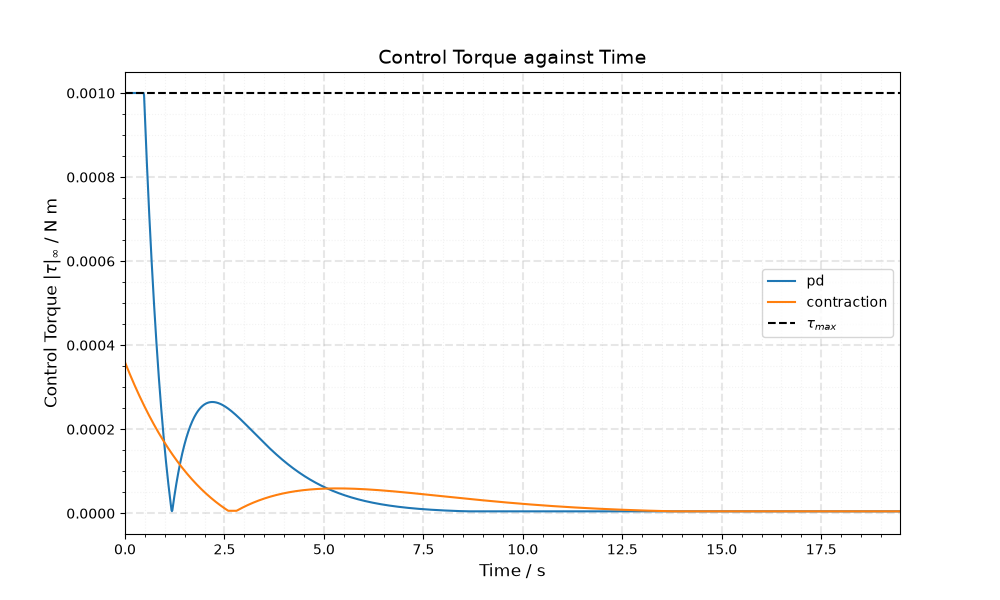
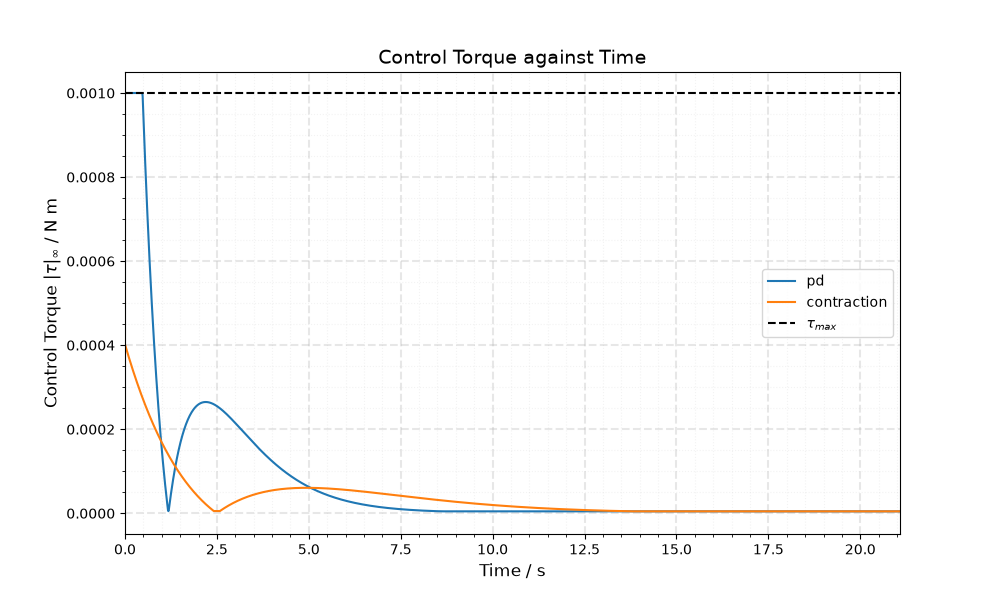
Final synthesis and README update

diff --git a/README.md b/README.md
@@ -1,12 +1,10 @@
 # Orbital Propagator
 
+**[Read the full report](REPORT_LINK_HERE)**: the propagator and the PD vs contraction controller comparison.
+
 A 6 degree-of-freedom orbital decay simulator, coupling orbital and attitude dynamics for a tumbling satellite under atmospheric drag, J2/J3/J4 gravitational perturbations, and stochastic solar flux (F10.7) Monte-Carlo variation.
 
 This project began as a rudimentary Excel spreadsheet model and has been extended into a coupled Python simulation. Since drag depends on the satellite's instantaneous cross-sectional area, and that area changes continuously as the satellite tumbles, orbital decay and attitude dynamics cannot be modeled independently.
-
-## Report
-
-A report covering the controller comparison is in progress and will be linked here.
 
 ## Features
 
@@ -15,7 +13,7 @@ A report covering the controller comparison is in progress and will be linked he
 - **Perturbations**: J2, J3, and J4 zonal harmonics (Earth oblateness and higher-order gravity effects)
 - **Atmospheric model**: NRLMSISE-00 via [`pymsis`](https://github.com/SWxTREC/pymsis), including stochastic F10.7 solar flux variation via a Monte Carlo Ornstein-Uhlenbeck process
 - **Attitude dynamics**: gravity-gradient and aerodynamic torques, quaternion kinematics (gimbal-lock free), Euler's rigid body equations
-- **Attitude control**: a PD controller and a contraction-theory controller (gain from a linear matrix inequality, with a numerical audit of the certificate), compared on a tumbling satellite at matched control effort
+- **Attitude control**: a PD controller and a contraction-theory controller (gain from a linear matrix inequality, with a numerical audit of the certificate), compared on a small test body
 
 ## Repository Structure
 
@@ -43,37 +41,37 @@ python simulate.py
 
 | Mode | What it runs |
 |---|---|
-| `single` | One uncontrolled propagation (orbit, altitude, silhouette area, angular velocity) |
+| `single` | One uncontrolled propagation (orbit, altitude, silhouette area) |
 | `stochastic` | Monte Carlo batch over random F10.7 trajectories |
 | `control` | PD vs contraction controller from the same starting attitude, with a metrics table and certificate audit |
 
-Run the tests with `python tests/test_suite.py` (it re-synthesises the contraction gain first).
+Run the tests with `python tests/test_suite.py`. It re-synthesises the contraction gain first without a fixed seed, so it overwrites `control/K.npy` and `control/M.npy` with a slightly different gain.
 
 Model parameters (orbit, satellite geometry, integration settings) are set in `z_main/config.py`.
 
-Graph inputs available include "orbit", "stochastic", "altitude", "silhouette", and "omega".
+`single` and `control` plots are saved to `_docs/images/`, replacing any earlier copies, including the images shown below.
 
 ## Results
 
-**Object Orbit around earth ("orbit"):** the trajectory of the object as it orbits around the Earth.
+**Orbit around Earth (`single` mode):** the trajectory of the object as it orbits around the Earth.
 
 ![Orbit](_docs/images/orbit.png)
 
-**Silhouette area over time ("silhouette"):** the projected cross-sectional area oscillates as the satellite tumbles, which drives the time-varying drag force.
+**Silhouette area over time (`single` mode):** the projected cross-sectional area oscillates as the satellite tumbles, which drives the time-varying drag force.
 
 ![Silhouette area against time](_docs/images/silhouette_area.png)
 
-**Monte Carlo altitude decay (15 runs) ("stochastic"):** decay uncertainty grows over time as stochastic F10.7 variation compounds across the propagation window.
+**Monte Carlo altitude decay (15 runs) (`stochastic` mode):** decay uncertainty grows over time as stochastic F10.7 variation compounds across the propagation window.
 
 ![Altitude against time, Monte Carlo](_docs/images/altitude_montecarlo.png)
 
-**Single-run altitude decay ("decay"):** periapsis and apoapsis oscillation shown as a filled band, with a sharp final descent as drag intensifies near reentry.
+**Single-run altitude decay (`single` mode):** periapsis and apoapsis oscillation shown as a filled band, with a sharp final descent as drag intensifies near reentry.
 
 ![Altitude against time, single run](_docs/images/altitude_singlerun.png)
 
 ## Background & Theory
 
-A full technical writeup, covering the state vector, integration method, perturbation and drag models, and attitude dynamics derivations, is available ([here](https://drive.google.com/file/d/1rn8725VqUK_gLDFTKHJGWjeKTiW_odit/view?usp=sharing)).
+A full technical writeup, covering the state vector, integration method, perturbation and drag models, and attitude dynamics derivations, is available ([here](https://drive.google.com/file/d/1eVhonOmglabFQFT5dziGbBMAgRy_dJVF/view?usp=sharing)).
 
 ## Attitude Control
 
@@ -81,9 +79,23 @@ The control layer is tested on a small test body (about 0.0038 kg m² inertia, 1
 
 - **PD**: `tau = -Kp q_e,vec - Kd w`, with gains set from a chosen natural frequency and damping ratio. Its steady-state offset is predicted as `2 |d| / Kp`, where `d` is the disturbance torque, and the simulated offset agrees to within about 2%.
 - **Contraction**: a constant-metric controller found by solving a linear matrix inequality (`cvxpy`) over sampled error states, with the torque limit built in. A numerical audit then checks the contraction condition at every unclipped sample along the run.
-- **Comparison**: both controllers see the same start, disturbance and torque limit, and are compared by steady-state offset, peak torque and control effort (`control` mode). A gain sweep across both controllers exists in `control/sweep.py` as a working extension, not yet wired into `simulate.py`.
+- **Comparison**: both controllers see the same start, disturbance and torque limit, and are compared by settling time (to within 2% of the initial error), steady-state offset, peak torque and control effort (`control` mode). A gain sweep across both controllers exists in `control/sweep.py` as a working extension, not yet wired into `simulate.py`.
 
-<!-- add control plots here once saved -->
+**Attitude error (`control` mode):** PD settles faster here, but it also uses more control effort and saturates the actuator during the first second, while the contraction gain stays inside the limit.
+
+![Attitude error against time](_docs/images/control_error.png)
+
+**Control torque (`control` mode):** the torque limit is built into the contraction synthesis, so its command stays below `tau_max`. Most of the effort for both controllers is spent during the initial slew.
+
+![Control torque against time](_docs/images/control_torque.png)
+
+**Contraction audit (`control` mode):** the largest eigenvalue of the contraction condition stays negative throughout the run, so the condition holds at every sample.
+
+![Contraction audit margin against time](_docs/images/control_audit.png)
+
+**Offset against effort (`control/sweep.py`):** across a range of gains, the two controllers lie close to one trade-off curve. Neither clearly wins at matched effort, so the main difference is the certificate that the contraction gain carries.
+
+![Steady-state offset against control effort](_docs/images/sweep_offset.png)
 
 ## Status & Next Steps
 
@@ -91,4 +103,4 @@ The propagator and the attitude control comparison (PD and contraction) are func
 
 ## References
 
-Key models and constants are drawn from Vallado (2013), Schaub and Junkins (2018), and Picone et al. (2002). Please see the full technical writeup for complete citations.
+Key models and constants are drawn from Vallado (2013), Schaub and Junkins (2018), and Picone et al. (2002), and the contraction controller builds on Lohmiller and Slotine (1998). Please see the report for complete citations.
